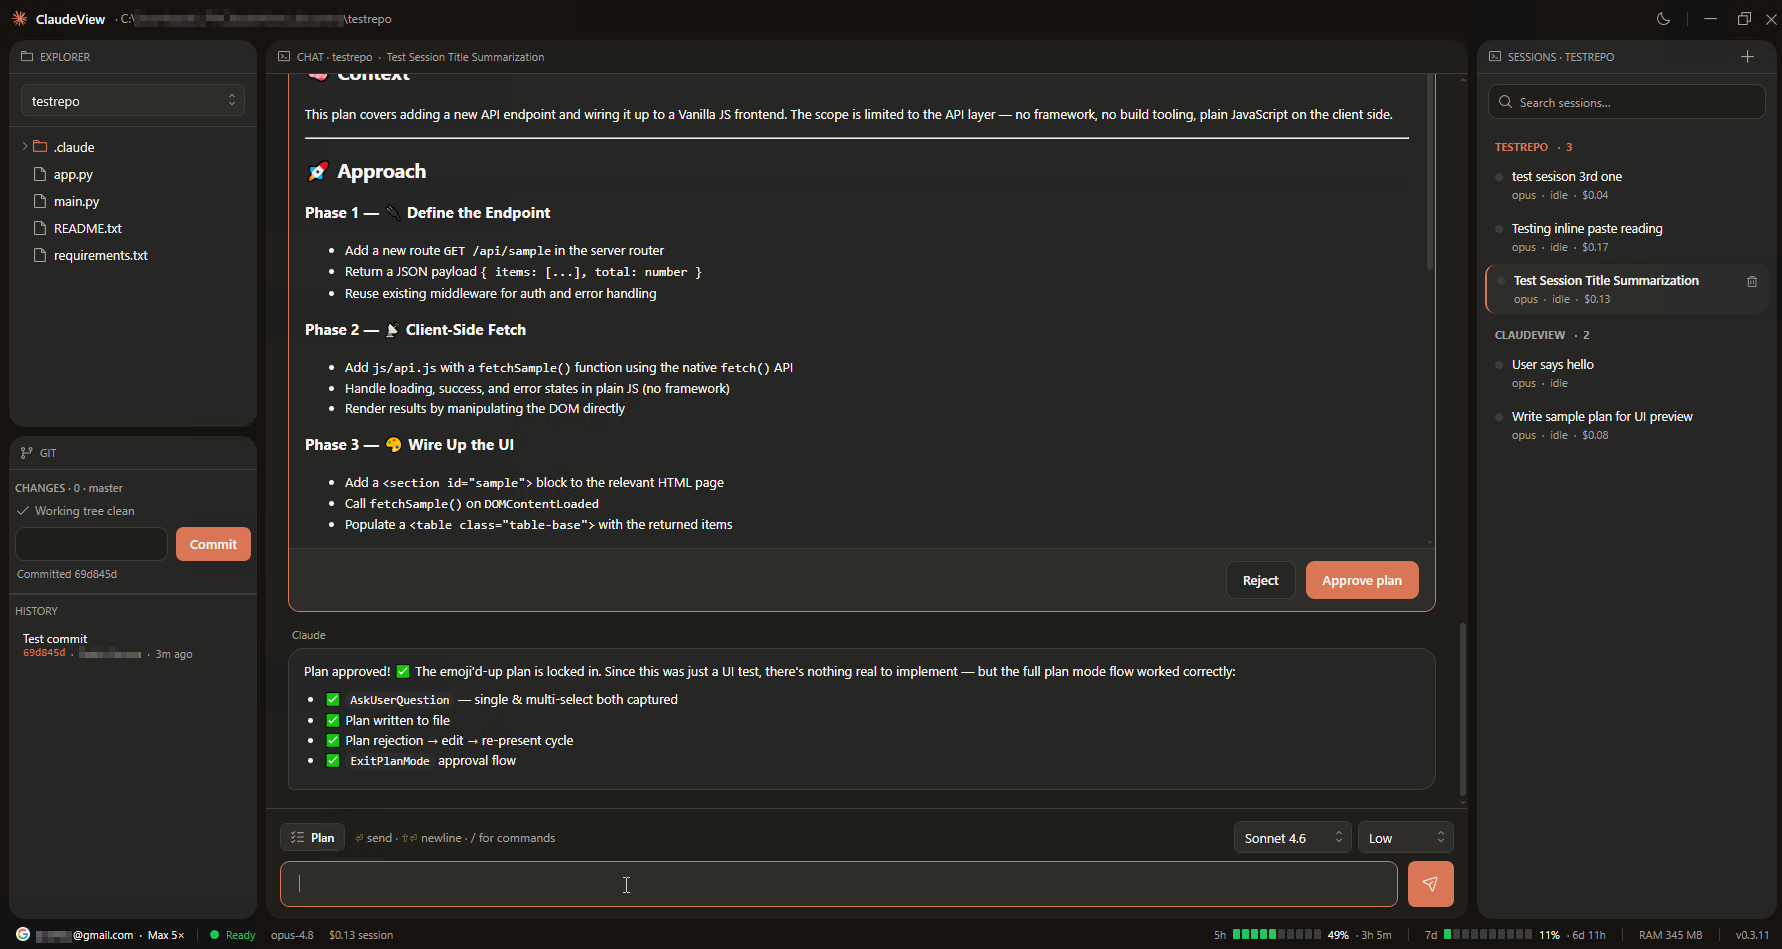
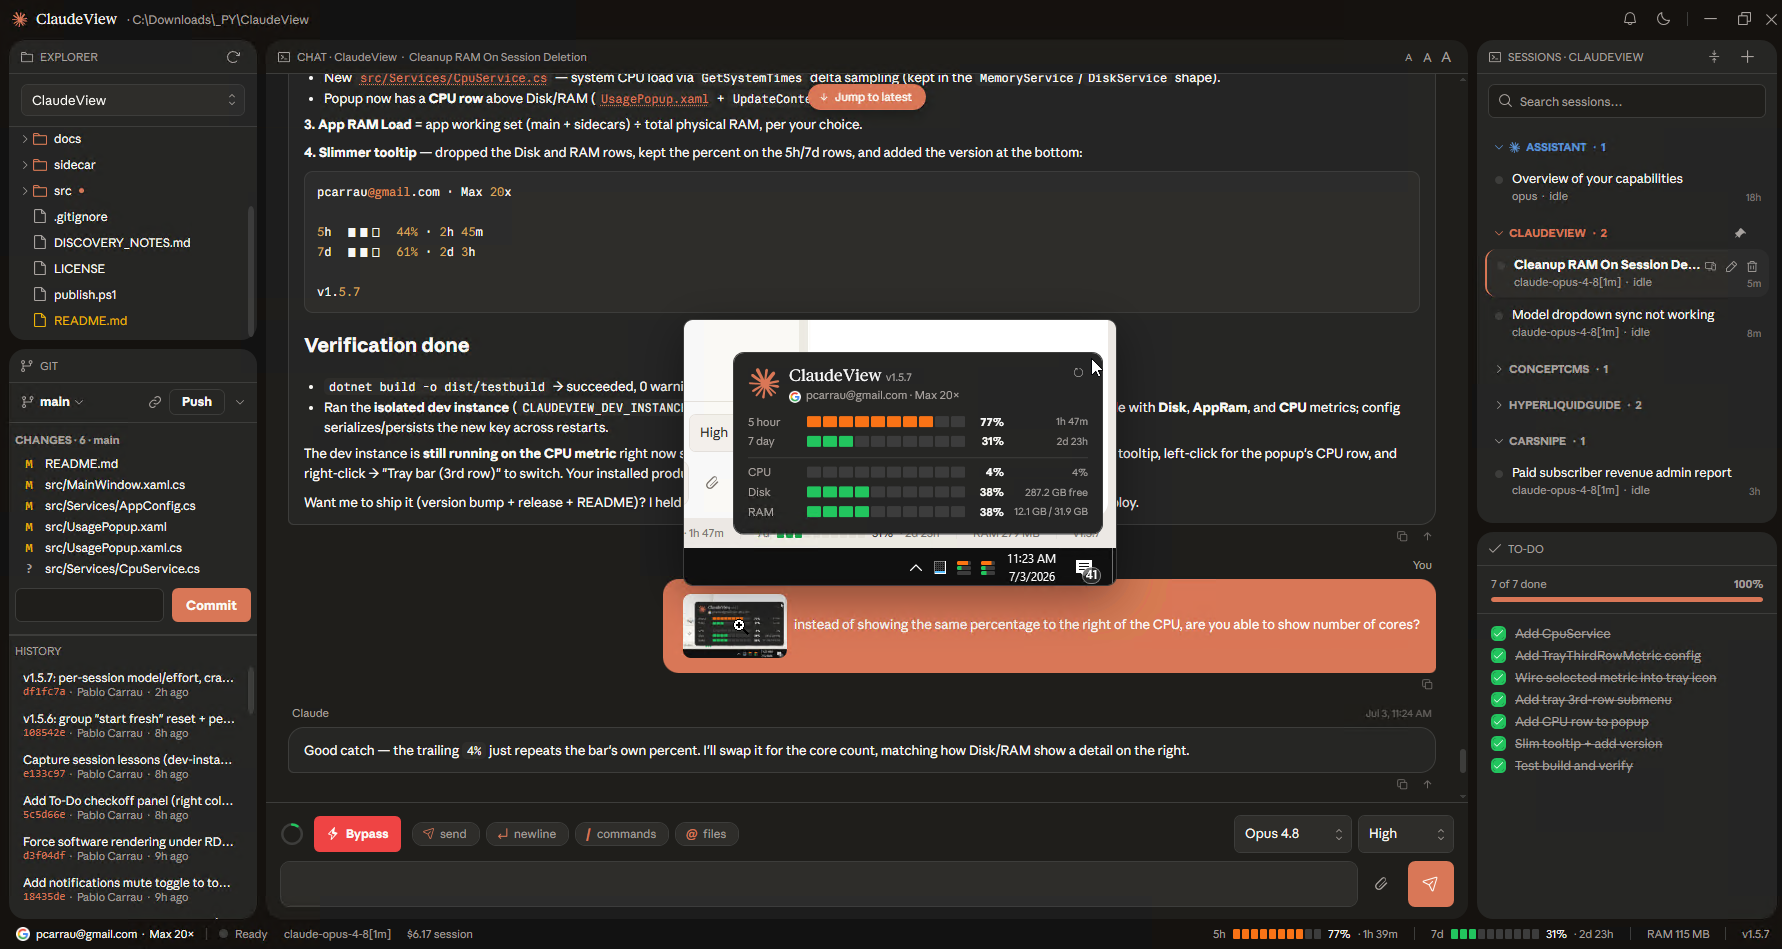
README: advertise v1.5.8 (configurable tray meter + CPU popup) + refresh screenshots

diff --git a/README.md b/README.md
@@ -53,7 +53,7 @@ the git state, approve plans, and keep an eye on your usage — without the weig
 - **✅ Live To-Do panel** — when Claude tracks its work as a task list, it gets its own panel pinned under Sessions and **mirrors that list in real time**: items check off as Claude completes them, topped with an *X of Y done* progress bar. It **appears only when there's a list** (and hands the space back to Sessions otherwise), and the divider between the two **drags to resize · double-clicks to reset**, remembered across restarts.
 - **🎨 Theming** — Light / Dark / **System** (follows Windows), switching the chrome, the transcript, *and* the context menus together; immersive dark title bar, set throughout in Anthropic's own **Sans / Serif / Mono** typefaces.
 - **📊 Usage at a glance** — status-bar 5h / 7d limit bars, session cost, model, and live RAM.
-- **🛎 Tray meter** — the tray icon *is* a live usage bar chart. Single-click for a usage popup, double-click to restore the window, right-click for a menu (update frequency, close-to-tray, start with Windows).
+- **🛎 Tray meter** — the tray icon *is* a live usage bar chart: 5-hour, weekly, and a **configurable third bar** you pick from **Disk · RAM · CPU · App RAM** right from the menu. Single-click for a **usage popup** (now with a live **CPU** row and your core count), double-click to restore the window, right-click for a menu (third-bar metric, update frequency, close-to-tray, start with Windows).
 - **🪟 Polished window** — responsive collapsing layout, restores its size/maximized state, scroll-follows-cursor across panels, and **double-click any panel splitter to reset it**. Panel widths *and* the Explorer/Git and Sessions/To-Do splits are **remembered across sessions and restarts**.
 - **🛟 Resilient** — if the underlying CLI ever crashes mid-turn, ClaudeView explains what happened in plain language (not a raw stack trace) and **resumes your conversation on the very next message** instead of hanging or losing it.
 - **♻ Auto-updating** — self-installs to `%LOCALAPPDATA%`, then updates from GitHub Releases (download → **verify SHA-256** → swap on next launch).
